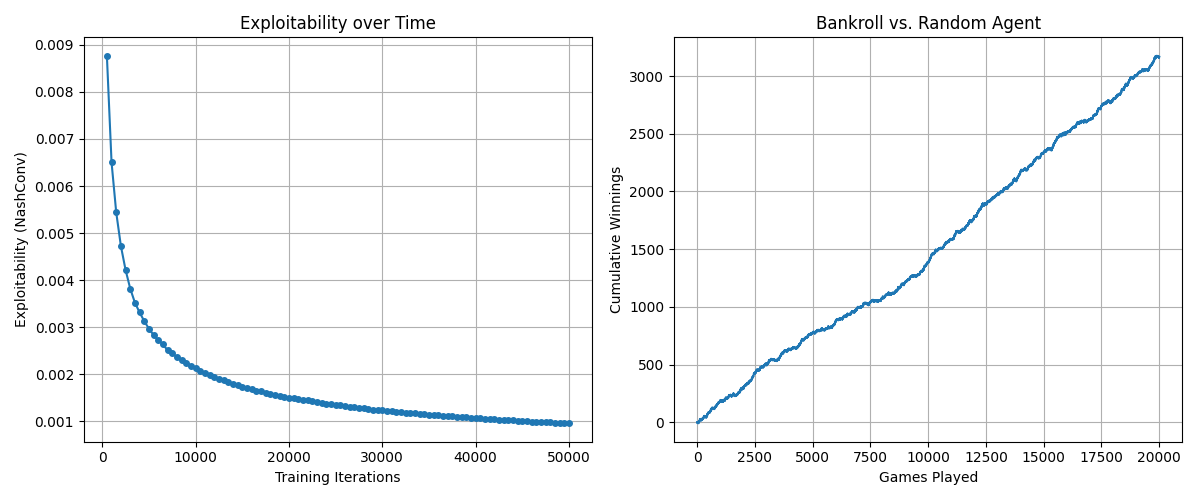
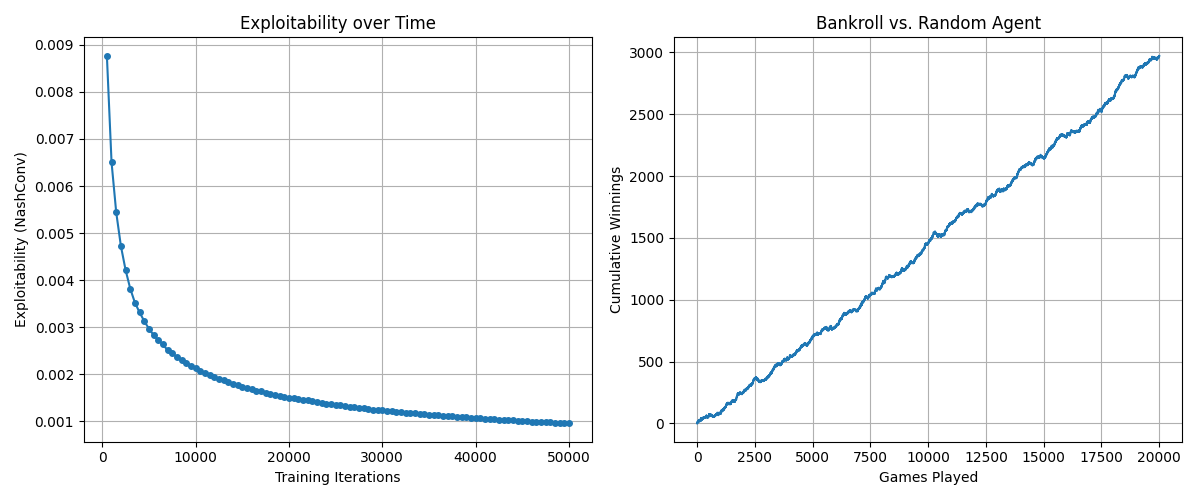
feat: kuhn working

diff --git a/src/seb/cfr.py b/src/seb/cfr.py
@@ -165,7 +165,7 @@ def evaluate_agent(game, trained_policy, opponent_policy, num_episodes=10000):
                 state.apply_action(action)
         
         # Correctly aggregate the reward based on the agent's seat
-        total_winnings += state.returns()[agent_seat]
+        total_winnings += state.rewards()[agent_seat]
         bankroll_history.append(total_winnings)
         
     return total_winnings / num_episodes, bankroll_history
@@ -208,4 +208,5 @@ if __name__ == "__main__":
         random_policy, 
         num_episodes=20000
     )
+    print("average reward", avg_reward)
     plot(history, bankroll)
